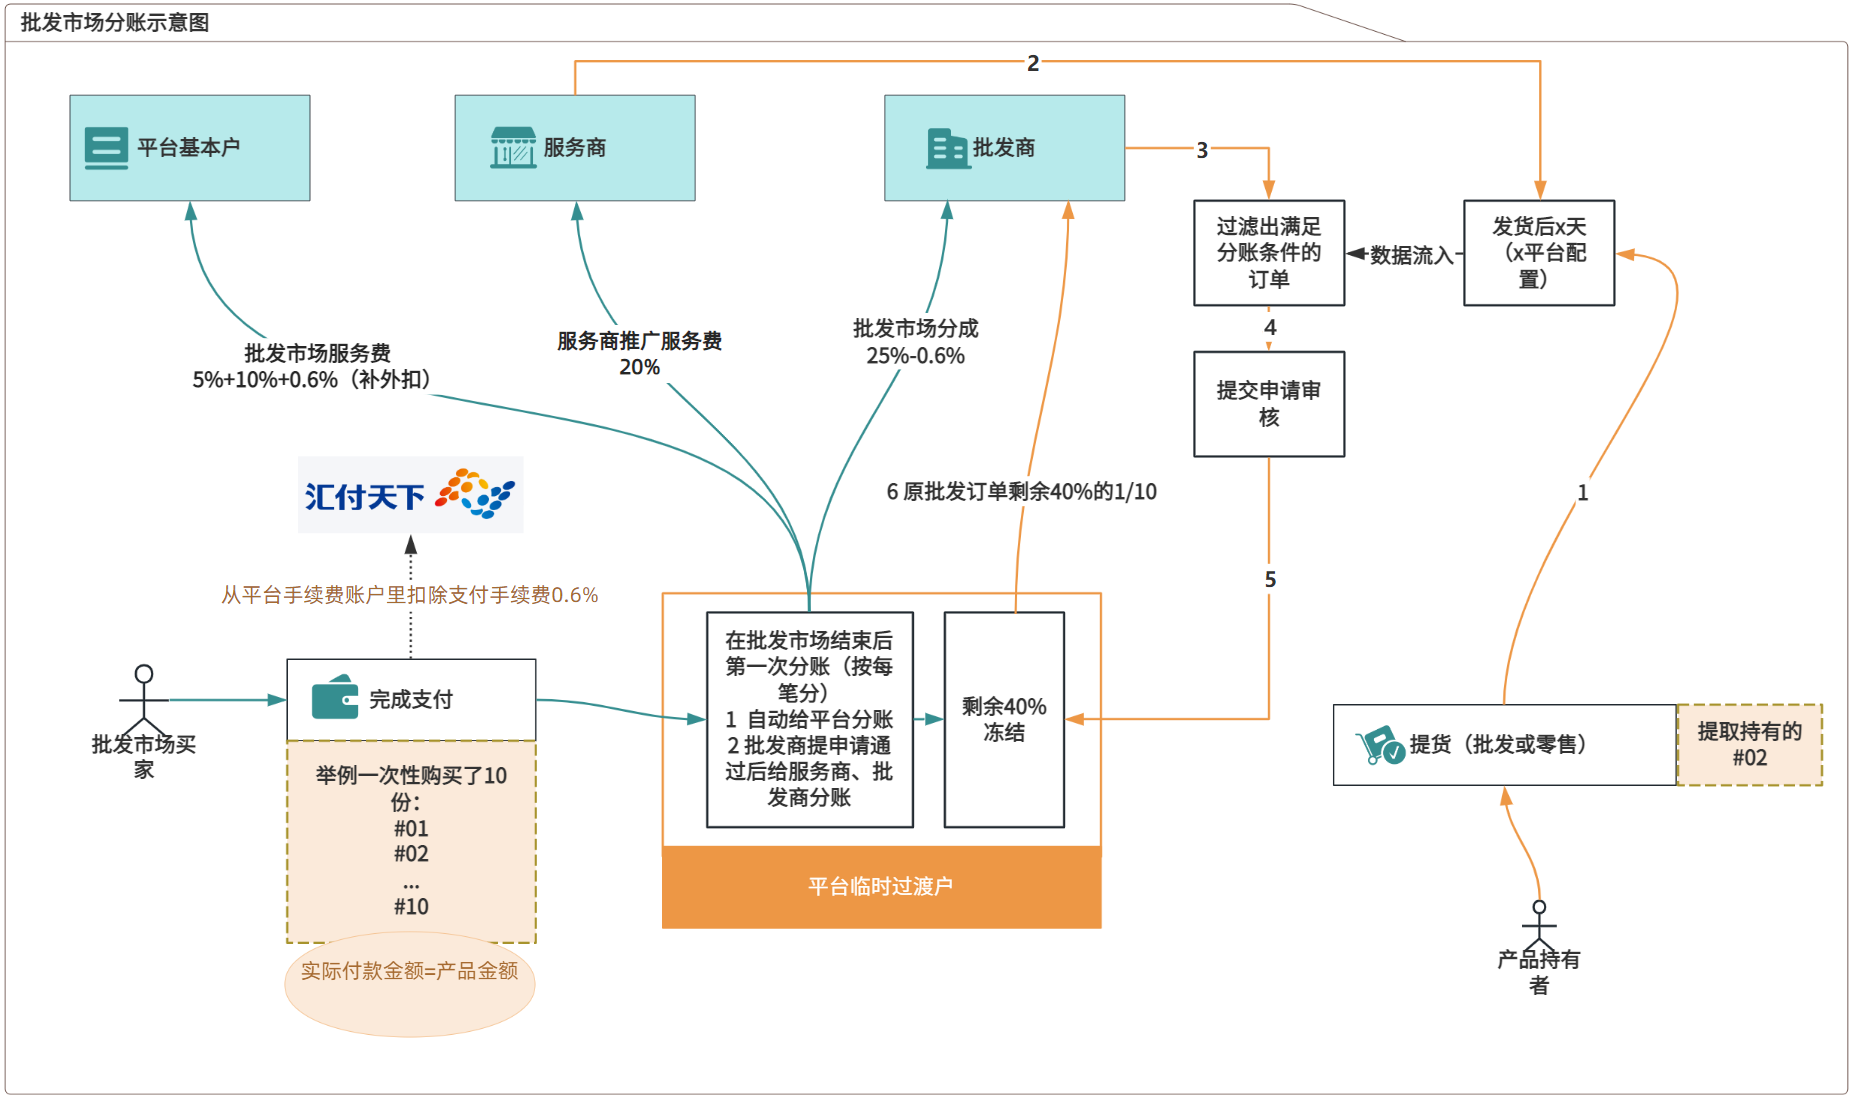
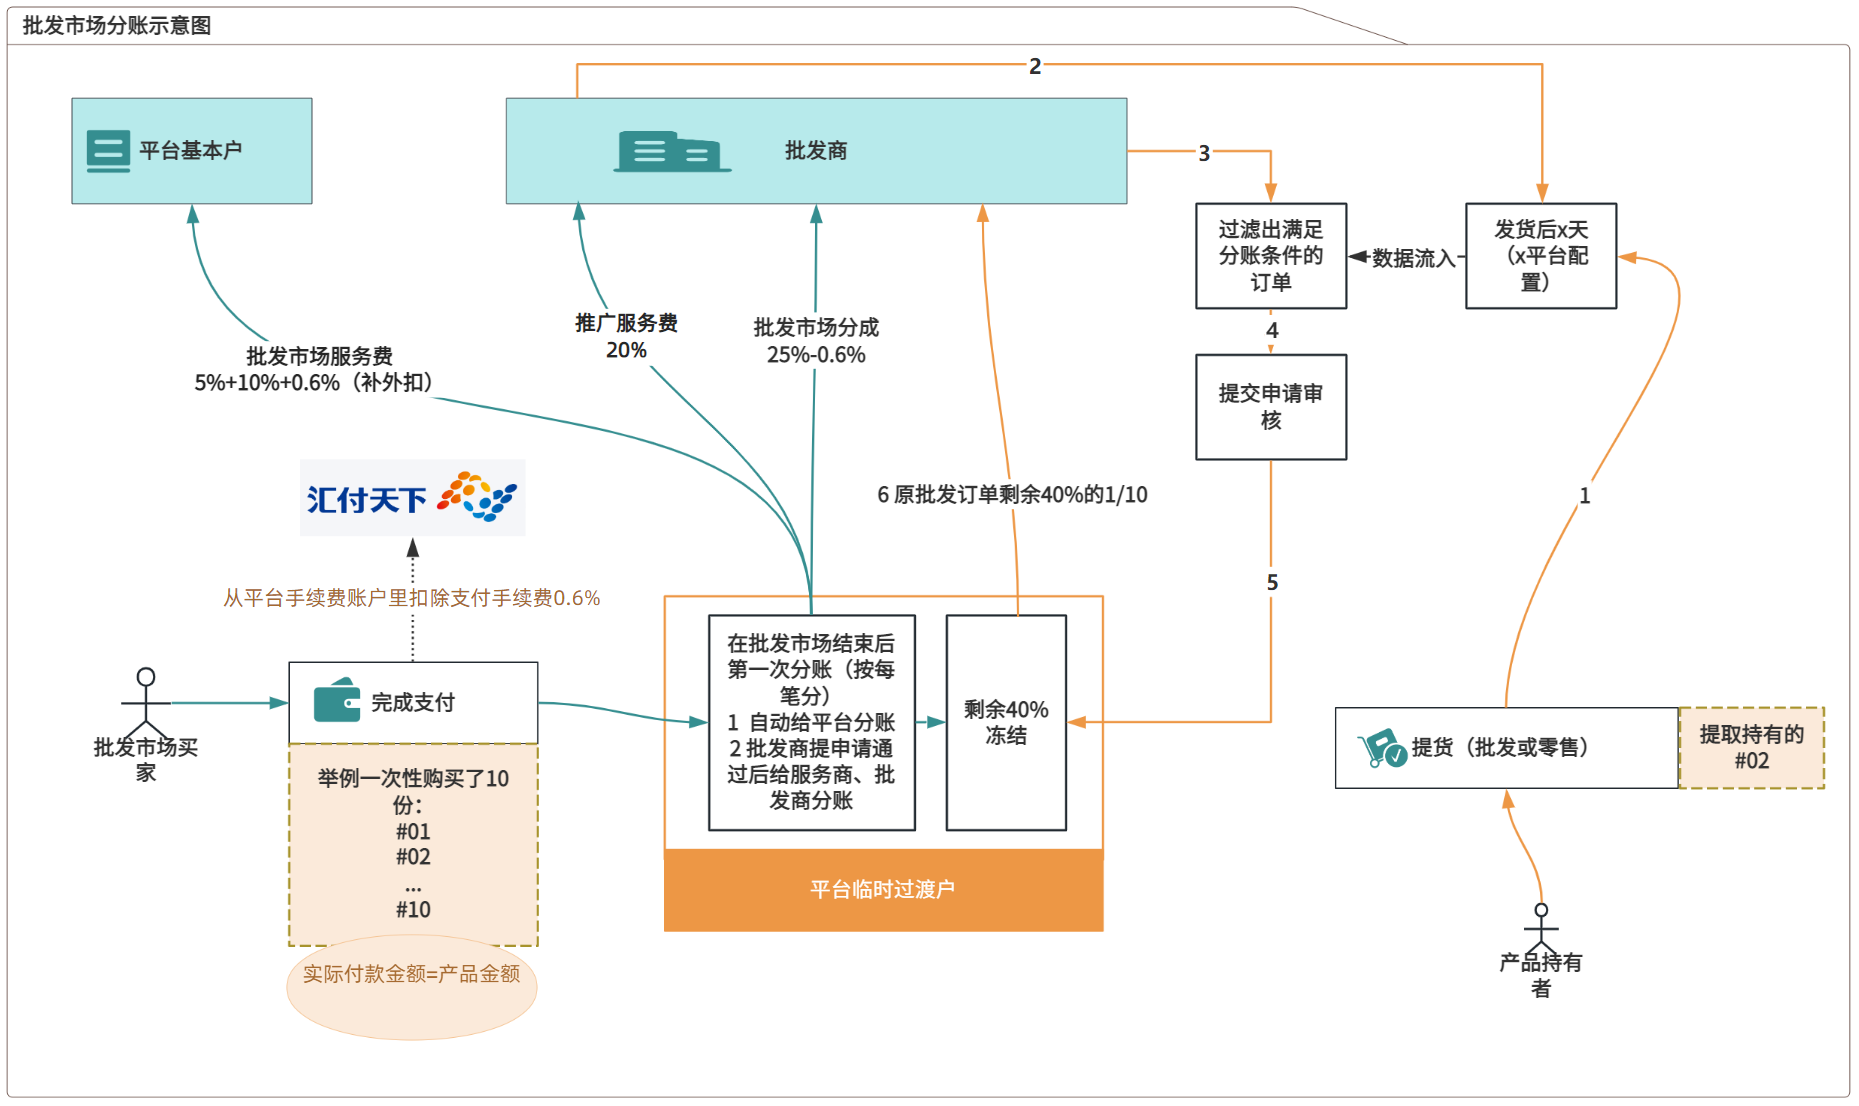
nodify

diff --git a/huifu/wholesale/用户管理.html b/huifu/wholesale/用户管理.html
@@ -417,6 +417,9 @@
             <a class="menu-item" href="#">
                 <span class="icon">📝</span><span>任务管理</span>
             </a>
+            <a class="menu-item" href="#">
+                <span class="icon">📈</span><span>运营数据统计</span>
+            </a>
             <div class="menu-group open">
                 <div class="menu-group-title" onclick="this.parentNode.classList.toggle('open')">
                     <span class="icon">⚙</span><span>系统管理</span><span class="arrow">▾</span>

diff --git a/huifu/wholesale/角色管理.html b/huifu/wholesale/角色管理.html
@@ -433,6 +433,9 @@
             <a class="menu-item" href="#">
                 <span class="icon">📝</span><span>任务管理</span>
             </a>
+            <a class="menu-item" href="#">
+                <span class="icon">📈</span><span>运营数据统计</span>
+            </a>
             <div class="menu-group open">
                 <div class="menu-group-title" onclick="this.parentNode.classList.toggle('open')">
                     <span class="icon">⚙</span><span>系统管理</span><span class="arrow">▾</span>

diff --git a/huifu/wholesale/产品管理.html b/huifu/wholesale/产品管理.html
@@ -250,6 +250,9 @@
             <a class="menu-item" href="#">
                 <span class="icon">📝</span><span>任务管理</span>
             </a>
+            <a class="menu-item" href="#">
+                <span class="icon">📈</span><span>运营数据统计</span>
+            </a>
             <div class="menu-group">
                 <div class="menu-group-title" onclick="this.parentNode.classList.toggle('open')">
                     <span class="icon">⚙</span><span>系统管理</span><span class="arrow">▾</span>

diff --git a/huifu/wholesale/产品详情管理.html b/huifu/wholesale/产品详情管理.html
@@ -270,6 +270,9 @@
             <a class="menu-item" href="#">
                 <span class="icon">📝</span><span>任务管理</span>
             </a>
+            <a class="menu-item" href="#">
+                <span class="icon">📈</span><span>运营数据统计</span>
+            </a>
             <div class="menu-group">
                 <div class="menu-group-title" onclick="this.parentNode.classList.toggle('open')">
                     <span class="icon">⚙</span><span>系统管理</span><span class="arrow">▾</span>

diff --git a/huifu/wholesale/信息查看.html b/huifu/wholesale/信息查看.html
@@ -221,6 +221,9 @@
             <a class="menu-item" href="#">
                 <span class="icon">📝</span><span>任务管理</span>
             </a>
+            <a class="menu-item" href="#">
+                <span class="icon">📈</span><span>运营数据统计</span>
+            </a>
             <div class="menu-group">
                 <div class="menu-group-title" onclick="this.parentNode.classList.toggle('open')">
                     <span class="icon">⚙</span><span>系统管理</span><span class="arrow">▾</span>

diff --git a/huifu/wholesale/分佣管理.html b/huifu/wholesale/分佣管理.html
@@ -343,6 +343,9 @@
             <a class="menu-item" href="#">
                 <span class="icon">📝</span><span>任务管理</span>
             </a>
+            <a class="menu-item" href="#">
+                <span class="icon">📈</span><span>运营数据统计</span>
+            </a>
             <div class="menu-group">
                 <div class="menu-group-title" onclick="this.parentNode.classList.toggle('open')">
                     <span class="icon">⚙</span><span>系统管理</span><span class="arrow">▾</span>

diff --git a/huifu/wholesale/发货管理.html b/huifu/wholesale/发货管理.html
@@ -468,6 +468,9 @@
             <a class="menu-item" href="#">
                 <span class="icon">📝</span><span>任务管理</span>
             </a>
+            <a class="menu-item" href="#">
+                <span class="icon">📈</span><span>运营数据统计</span>
+            </a>
             <div class="menu-group">
                 <div class="menu-group-title" onclick="this.parentNode.classList.toggle('open')">
                     <span class="icon">⚙</span><span>系统管理</span><span class="arrow">▾</span>

diff --git a/huifu/wholesale/批发资金管理.html b/huifu/wholesale/批发资金管理.html
@@ -343,6 +343,9 @@
             <a class="menu-item" href="#">
                 <span class="icon">📝</span><span>任务管理</span>
             </a>
+            <a class="menu-item" href="#">
+                <span class="icon">📈</span><span>运营数据统计</span>
+            </a>
             <div class="menu-group">
                 <div class="menu-group-title" onclick="this.parentNode.classList.toggle('open')">
                     <span class="icon">⚙</span><span>系统管理</span><span class="arrow">▾</span>

diff --git a/huifu/wholesale/运营资金管理.html b/huifu/wholesale/运营资金管理.html
@@ -799,6 +799,9 @@
             <a class="menu-item" href="#">
                 <span class="icon">📝</span><span>任务管理</span>
             </a>
+            <a class="menu-item" href="#">
+                <span class="icon">📈</span><span>运营数据统计</span>
+            </a>
             <div class="menu-group">
                 <div class="menu-group-title" onclick="this.parentNode.classList.toggle('open')">
                     <span class="icon">⚙</span><span>系统管理</span><span class="arrow">▾</span>
